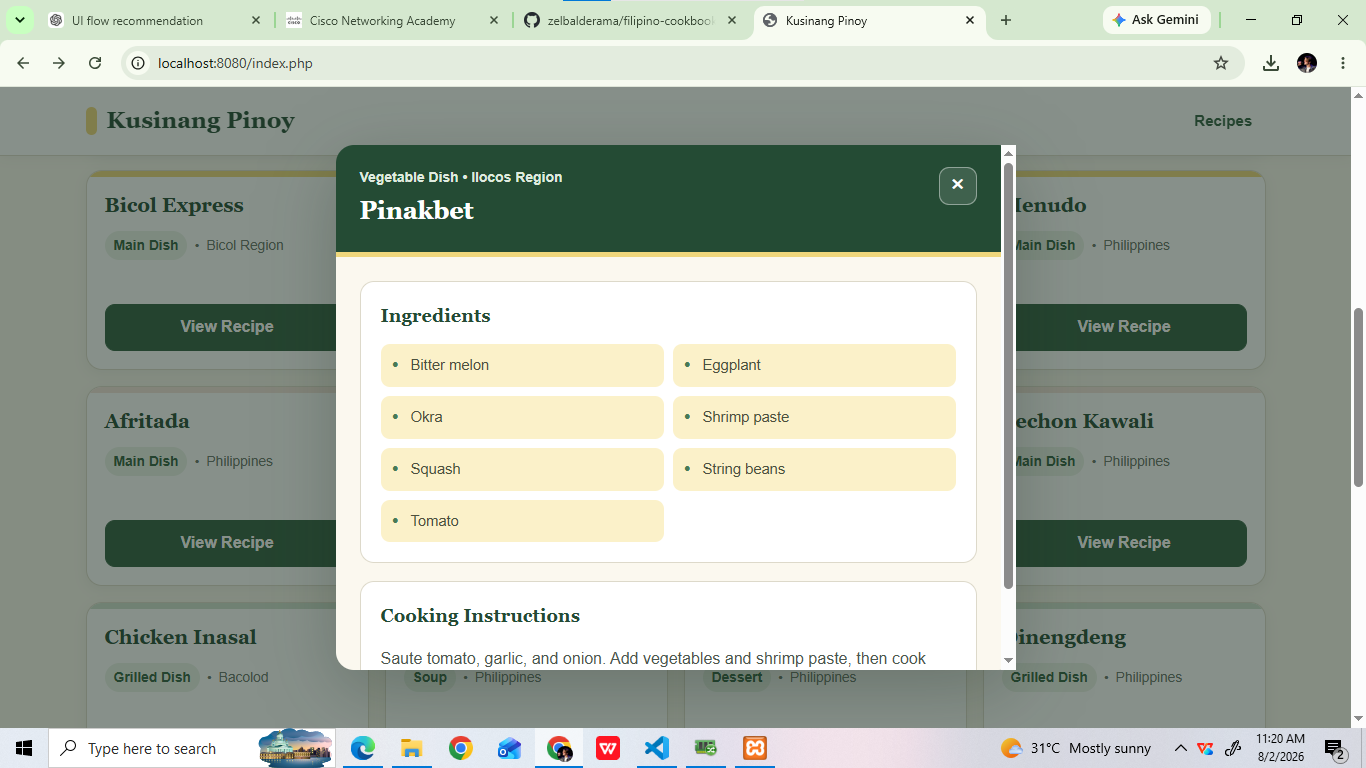
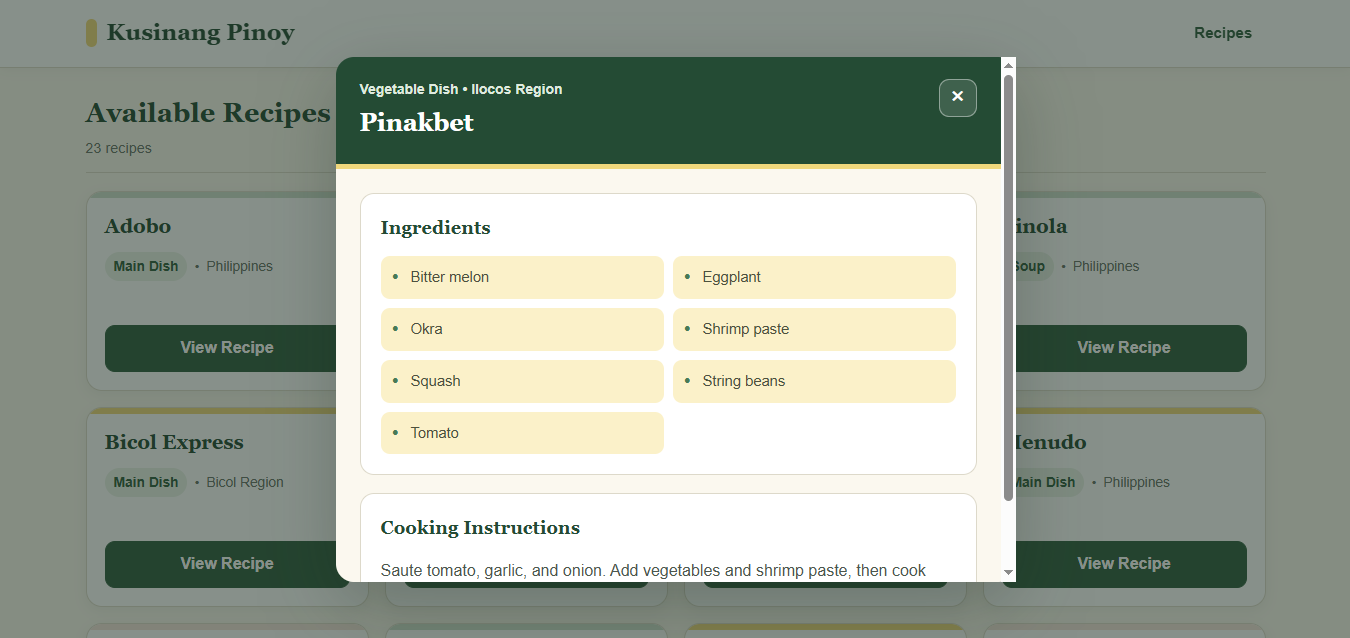
Added Screenshots

diff --git a/README.md b/README.md
@@ -314,7 +314,7 @@ Place the screenshots inside the `screenshots/` folder.
 
 ### Rate-Limit Response
 
-![Rate-Limit Response](screenshots/05-rate-limit-response.png)
+![Rate-Limit Response](screenshots/05-rate-limit-response.jpeg)
 
 ## API Source and Acknowledgment
 
